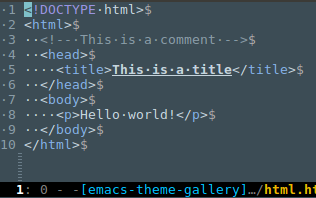
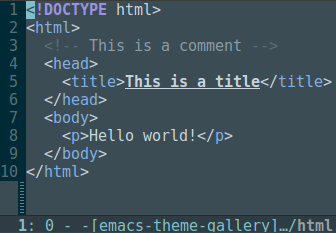
rm whitespace

Changed region(s): [[0.0, 0.0, 1.0, 1.0]]

diff --git a/scripts/themeProperties.js b/scripts/themeProperties.js
@@ -1,305 +1,65 @@
 var emacsThemesGallery = {};
 emacsThemesGallery.themeProperties = {};
 emacsThemesGallery.themeProperties.themes = [
-  { name: "adwaita", dark: false, location: "native", melpaName: "" },
-  {
-    name: "afternoon",
-    dark: true,
-    location: "https://github.com/osener/emacs-afternoon-theme",
-    melpaName: "afternoon-theme"
-  },
-  {
-    name: "alect-black",
-    dark: true,
-    location: "https://github.com/alezost/alect-themes",
-    melpaName: "alect-themes"
-  },
-  {
-    name: "alect-black-alt",
-    dark: true,
-    location: "https://github.com/alezost/alect-themes",
-    melpaName: "alect-themes"
-  },
-  {
-    name: "alect-dark",
-    dark: true,
-    location: "https://github.com/alezost/alect-themes",
-    melpaName: "alect-themes"
-  },
-  {
-    name: "alect-dark-alt",
-    dark: true,
-    location: "https://github.com/alezost/alect-themes",
-    melpaName: "alect-themes"
-  },
-  {
-    name: "alect-light",
-    dark: false,
-    location: "https://github.com/alezost/alect-themes",
-    melpaName: "alect-themes"
-  },
-  {
-    name: "alect-light-alt",
-    dark: false,
-    location: "https://github.com/alezost/alect-themes",
-    melpaName: "alect-themes"
-  },
-  {
-    name: "ample",
-    dark: true,
-    location: "https://github.com/jordonbiondo/ample-theme",
-    melpaName: "ample-theme"
-  },
-  {
-    name: "ample-light",
-    dark: false,
-    location: "https://github.com/jordonbiondo/ample-theme",
-    melpaName: "ample-theme"
-  },
-  {
-    name: "ample-zen",
-    dark: true,
-    location: "https://github.com/mjwall/ample-zen",
-    melpaName: "ample-zen-theme"
-  },
-  {
-    name: "anti-zenburn",
-    dark: false,
-    location: "https://github.com/m00natic/anti-zenburn-theme",
-    melpaName: "anti-zenburn-theme"
-  },
-  {
-    name: "badger",
-    dark: true,
-    location: "https://github.com/ccann/badger-theme",
-    melpaName: "badger-theme"
-  },
-  {
-    name: "bubbleberry",
-    dark: true,
-    location: "https://github.com/jasonm23/emacs-bubbleberry-theme",
-    melpaName: "bubbleberry-theme"
-  },
-  {
-    name: "busybee",
-    dark: true,
-    location: "https://github.com/mswift42/busybee-theme",
-    melpaName: "busybee-theme"
-  },
-  {
-    name: "cherry-blossom",
-    dark: true,
-    location: "https://github.com/byels/emacs-cherry-blossom-theme",
-    melpaName: "cherry-blossom-theme"
-  },
-  {
-    name: "clues",
-    dark: true,
-    location: "https://github.com/emacsfodder/emacs-clues-theme",
-    melpaName: "clues-theme"
-  },
-  {
-    name: "cyberpunk",
-    dark: true,
-    location: "https://github.com/n3mo/cyberpunk-theme.el",
-    melpaName: "cyberpunk-theme"
-  },
-  {
-    name: "dakrone",
-    dark: true,
-    location: "https://github.com/dakrone/dakrone-theme",
-    melpaName: "dakrone-theme"
-  },
-  {
-    name: "darkburn",
-    dark: true,
-    location: "https://github.com/gorauskas/darkburn-theme",
-    melpaName: "darkburn-theme"
-  },
-  { name: "deeper-blue", dark: true, location: "native", melpaName: "" },
-  { name: "dichromacy", dark: false, location: "native", melpaName: "" },
-  {
-    name: "distinguished",
-    dark: true,
-    location: "https://github.com/Lokaltog/distinguished-theme",
-    melpaName: "distinguished-theme"
-  },
-  {
-    name: "espresso",
-    dark: false,
-    location: "https://github.com/dgutov/espresso-theme",
-    melpaName: "espresso-theme"
-  },
-  {
-    name: "firebelly",
-    dark: true,
-    location: "https://github.com/startling/firebelly",
-    melpaName: "firebelly-theme"
-  },
-  {
-    name: "flatland",
-    dark: true,
-    location: "https://github.com/gchp/flatland-emacs",
-    melpaName: "flatland-theme"
-  },
-  {
-    name: "flatui",
-    dark: false,
-    location: "https://github.com/Corsair/emacs-flatui-theme",
-    melpaName: "flatui-theme"
-  },
-  {
-    name: "grandshell",
-    dark: true,
-    location: "https://github.com/steckerhalter/grandshell-theme",
-    melpaName: "grandshell-theme"
-  },
-  {
-    name: "gruber-darker",
-    dark: true,
-    location: "https://github.com/rexim/gruber-darker-theme",
-    melpaName: "gruber-darker-theme"
-  },
-  {
-    name: "gruvbox",
-    dark: true,
-    location: "https://github.com/Greduan/emacs-theme-gruvbox",
-    melpaName: "gruvbox-theme"
-  },
-  {
-    name: "hemisu-dark",
-    dark: true,
-    location: "https://github.com/andrzejsliwa/hemisu-theme",
-    melpaName: "hemisu-theme"
-  },
-  {
-    name: "hemisu-light",
-    dark: false,
-    location: "https://github.com/andrzejsliwa/hemisu-theme",
-    melpaName: "hemisu-theme"
-  },
-  {
-    name: "heroku",
-    dark: true,
-    location: "https://github.com/jonathanchu/heroku-theme",
-    melpaName: "heroku-theme"
-  },
-  {
-    name: "leuven",
-    dark: false,
-    location: "https://github.com/fniessen/emacs-leuven-theme",
-    melpaName: "leuven-theme"
-  },
-  { name: "light-blue", dark: false, location: "native", melpaName: "" },
-  { name: "manoj-dark", dark: true, location: "native", melpaName: "" },
-  { name: "misterioso", dark: true, location: "native", melpaName: "" },
-  {
-    name: "moe-dark",
-    dark: true,
-    location: "https://github.com/kuanyui/moe-theme.el",
-    melpaName: "moe-theme"
-  },
-  {
-    name: "moe-light",
-    dark: false,
-    location: "https://github.com/kuanyui/moe-theme.el",
-    melpaName: "moe-theme"
-  },
-  {
-    name: "monokai",
-    dark: true,
-    location: "https://github.com/oneKelvinSmith/monokai-emacs",
-    melpaName: "monokai-theme"
-  },
-  {
-    name: "nova",
-    dark: true,
-    location: "https://github.com/muirmanders/emacs-nova-theme",
-    melpaName: "nova-theme"
-  },
-  {
-    name: "sanityinc-tomorrow-blue",
-    dark: true,
-    location: "https://github.com/purcell/color-theme-sanityinc-tomorrow",
-    melpaName: "color-theme-sanityinc-tomorrow"
-  },
-  {
-    name: "sanityinc-tomorrow-bright",
-    dark: true,
-    location: "https://github.com/purcell/color-theme-sanityinc-tomorrow",
-    melpaName: "color-theme-sanityinc-tomorrow"
-  },
-  {
-    name: "sanityinc-tomorrow-day",
-    dark: false,
-    location: "https://github.com/purcell/color-theme-sanityinc-tomorrow",
-    melpaName: "color-theme-sanityinc-tomorrow"
-  },
-  {
-    name: "sanityinc-tomorrow-eighties",
-    dark: true,
-    location: "https://github.com/purcell/color-theme-sanityinc-tomorrow",
-    melpaName: "color-theme-sanityinc-tomorrow"
-  },
-  {
-    name: "sanityinc-tomorrow-night",
-    dark: true,
-    location: "https://github.com/purcell/color-theme-sanityinc-tomorrow",
-    melpaName: "color-theme-sanityinc-tomorrow"
-  },
-  {
-    name: "solarized-dark",
-    dark: true,
-    location: "https://github.com/bbatsov/solarized-emacs",
-    melpaName: "solarized-theme"
-  },
-  {
-    name: "solarized-light",
-    dark: false,
-    location: "https://github.com/bbatsov/solarized-emacs",
-    melpaName: "solarized-theme"
-  },
-  {
-    name: "soothe",
-    dark: true,
-    location: "https://github.com/emacsfodder/emacs-soothe-theme",
-    melpaName: "soothe-theme"
-  },
-  {
-    name: "spacemacs-dark",
-    dark: true,
-    location: "https://github.com/nashamri/spacemacs-theme",
-    melpaName: "spacemacs-theme"
-  },
-  {
-    name: "spacemacs-light",
-    dark: false,
-    location: "https://github.com/nashamri/spacemacs-theme",
-    melpaName: "spacemacs-theme"
-  },
-  { name: "tango", dark: false, location: "native", melpaName: "" },
-  { name: "tango-dark", dark: true, location: "native", melpaName: "" },
-  {
-    name: "tangotango",
-    dark: true,
-    location: "https://github.com/juba/color-theme-tangotango",
-    melpaName: "tangotango-theme"
-  },
-  {
-    name: "tango-plus",
-    dark: false,
-    location: "https://github.com/tmalsburg/tango-plus-theme",
-    melpaName: "tango-plus-theme"
-  },
-  { name: "tsdh-dark", dark: true, location: "native", melpaName: "" },
-  { name: "tsdh-light", dark: false, location: "native", melpaName: "" },
-  { name: "wheatgrass", dark: true, location: "native", melpaName: "" },
-  { name: "whiteboard", dark: false, location: "native", melpaName: "" },
-  { name: "wombat", dark: true, location: "native", melpaName: "" },
-  {
-    name: "zenburn",
-    dark: true,
-    location: "https://github.com/bbatsov/zenburn-emacs",
-    melpaName: "zenburn-theme"
-  }
+{ name: 'adwaita', dark: false, location: 'native', melpaName: '' },
+{ name: 'afternoon', dark: true, location: 'https://github.com/osener/emacs-afternoon-theme', melpaName: 'afternoon-theme' },
+{ name: 'alect-black', dark: true, location: 'https://github.com/alezost/alect-themes', melpaName: 'alect-themes' },
+{ name: 'alect-black-alt', dark: true, location: 'https://github.com/alezost/alect-themes', melpaName: 'alect-themes' },
+{ name: 'alect-dark', dark: true, location: 'https://github.com/alezost/alect-themes', melpaName: 'alect-themes' },
+{ name: 'alect-dark-alt', dark: true, location: 'https://github.com/alezost/alect-themes', melpaName: 'alect-themes' },
+{ name: 'alect-light', dark: false, location: 'https://github.com/alezost/alect-themes', melpaName: 'alect-themes' },
+{ name: 'alect-light-alt', dark: false, location: 'https://github.com/alezost/alect-themes', melpaName: 'alect-themes' },
+{ name: 'ample', dark: true, location: 'https://github.com/jordonbiondo/ample-theme', melpaName: 'ample-theme' },
+{ name: 'ample-light', dark: false, location: 'https://github.com/jordonbiondo/ample-theme', melpaName: 'ample-theme' },
+{ name: 'ample-zen', dark: true, location: 'https://github.com/mjwall/ample-zen', melpaName: 'ample-zen-theme' },
+{ name: 'anti-zenburn', dark: false, location: 'https://github.com/m00natic/anti-zenburn-theme', melpaName: 'anti-zenburn-theme' },
+{ name: 'badger', dark: true, location: 'https://github.com/ccann/badger-theme', melpaName: 'badger-theme' },
+{ name: 'bubbleberry', dark: true, location: 'https://github.com/jasonm23/emacs-bubbleberry-theme', melpaName: 'bubbleberry-theme' },
+{ name: 'busybee', dark: true, location: 'https://github.com/mswift42/busybee-theme', melpaName: 'busybee-theme' },
+{ name: 'cherry-blossom', dark: true, location: 'https://github.com/byels/emacs-cherry-blossom-theme', melpaName: 'cherry-blossom-theme' },
+{ name: 'clues', dark: true, location: 'https://github.com/emacsfodder/emacs-clues-theme', melpaName: 'clues-theme' },
+{ name: 'cyberpunk', dark: true, location: 'https://github.com/n3mo/cyberpunk-theme.el', melpaName: 'cyberpunk-theme' },
+{ name: 'dakrone', dark: true, location: 'https://github.com/dakrone/dakrone-theme', melpaName: 'dakrone-theme' },
+{ name: 'darkburn', dark: true, location: 'https://github.com/gorauskas/darkburn-theme', melpaName: 'darkburn-theme' },
+{ name: 'deeper-blue', dark: true, location: 'native', melpaName: '' },
+{ name: 'dichromacy', dark: false, location: 'native', melpaName: '' },
+{ name: 'distinguished', dark: true, location: 'https://github.com/Lokaltog/distinguished-theme', melpaName: 'distinguished-theme' },
+{ name: 'espresso', dark: false, location: 'https://github.com/dgutov/espresso-theme', melpaName: 'espresso-theme' },
+{ name: 'firebelly', dark: true, location: 'https://github.com/startling/firebelly', melpaName: 'firebelly-theme' },
+{ name: 'flatland', dark: true, location: 'https://github.com/gchp/flatland-emacs', melpaName: 'flatland-theme' },
+{ name: 'flatui', dark: false, location: 'https://github.com/Corsair/emacs-flatui-theme', melpaName: 'flatui-theme' },
+{ name: 'grandshell', dark: true, location: 'https://github.com/steckerhalter/grandshell-theme', melpaName: 'grandshell-theme' },
+{ name: 'gruber-darker', dark: true, location: 'https://github.com/rexim/gruber-darker-theme', melpaName: 'gruber-darker-theme' },
+{ name: 'gruvbox', dark: true, location: 'https://github.com/Greduan/emacs-theme-gruvbox', melpaName: 'gruvbox-theme' },
+{ name: 'hemisu-dark', dark: true, location: 'https://github.com/andrzejsliwa/hemisu-theme', melpaName: 'hemisu-theme' },
+{ name: 'hemisu-light', dark: false, location: 'https://github.com/andrzejsliwa/hemisu-theme', melpaName: 'hemisu-theme' },
+{ name: 'heroku', dark: true, location: 'https://github.com/jonathanchu/heroku-theme', melpaName: 'heroku-theme' },
+{ name: 'leuven', dark: false, location: 'https://github.com/fniessen/emacs-leuven-theme', melpaName: 'leuven-theme' },
+{ name: 'light-blue', dark: false, location: 'native', melpaName: '' },
+{ name: 'manoj-dark', dark: true, location: 'native', melpaName: '' },
+{ name: 'misterioso', dark: true, location: 'native', melpaName: '' },
+{ name: 'moe-dark', dark: true, location: 'https://github.com/kuanyui/moe-theme.el', melpaName: 'moe-theme' },
+{ name: 'moe-light', dark: false, location: 'https://github.com/kuanyui/moe-theme.el', melpaName: 'moe-theme' },
+{ name: 'monokai', dark: true, location: 'https://github.com/oneKelvinSmith/monokai-emacs', melpaName: 'monokai-theme' },
+{ name: 'nova', dark: true, location: 'https://github.com/muirmanders/emacs-nova-theme', melpaName: 'nova-theme' },
+{ name: 'sanityinc-tomorrow-blue', dark: true, location: 'https://github.com/purcell/color-theme-sanityinc-tomorrow', melpaName: 'color-theme-sanityinc-tomorrow' },
+{ name: 'sanityinc-tomorrow-bright', dark: true, location: 'https://github.com/purcell/color-theme-sanityinc-tomorrow', melpaName: 'color-theme-sanityinc-tomorrow' },
+{ name: 'sanityinc-tomorrow-day', dark: false, location: 'https://github.com/purcell/color-theme-sanityinc-tomorrow', melpaName: 'color-theme-sanityinc-tomorrow' },
+{ name: 'sanityinc-tomorrow-eighties', dark: true, location: 'https://github.com/purcell/color-theme-sanityinc-tomorrow', melpaName: 'color-theme-sanityinc-tomorrow' },
+{ name: 'sanityinc-tomorrow-night', dark: true, location: 'https://github.com/purcell/color-theme-sanityinc-tomorrow', melpaName: 'color-theme-sanityinc-tomorrow' },
+{ name: 'solarized-dark', dark: true, location: 'https://github.com/bbatsov/solarized-emacs', melpaName: 'solarized-theme' },
+{ name: 'solarized-light', dark: false, location: 'https://github.com/bbatsov/solarized-emacs', melpaName: 'solarized-theme' },
+{ name: 'soothe', dark: true, location: 'https://github.com/emacsfodder/emacs-soothe-theme', melpaName: 'soothe-theme' },
+{ name: 'spacemacs-dark', dark: true, location: 'https://github.com/nashamri/spacemacs-theme', melpaName: 'spacemacs-theme' },
+{ name: 'spacemacs-light', dark: false, location: 'https://github.com/nashamri/spacemacs-theme', melpaName: 'spacemacs-theme' },
+{ name: 'tango', dark: false, location: 'native', melpaName: '' },
+{ name: 'tango-dark', dark: true, location: 'native', melpaName: '' },
+{ name: 'tangotango', dark: true, location: 'https://github.com/juba/color-theme-tangotango', melpaName: 'tangotango-theme' },
+{ name: 'tango-plus', dark: false, location: 'https://github.com/tmalsburg/tango-plus-theme', melpaName: 'tango-plus-theme' },
+{ name: 'tsdh-dark', dark: true, location: 'native', melpaName: '' },
+{ name: 'tsdh-light', dark: false, location: 'native', melpaName: '' },
+{ name: 'wheatgrass', dark: true, location: 'native', melpaName: '' },
+{ name: 'whiteboard', dark: false, location: 'native', melpaName: '' },
+{ name: 'wombat', dark: true, location: 'native', melpaName: '' },
+{ name: 'zenburn', dark: true, location: 'https://github.com/bbatsov/zenburn-emacs', melpaName: 'zenburn-theme' }
 ];
